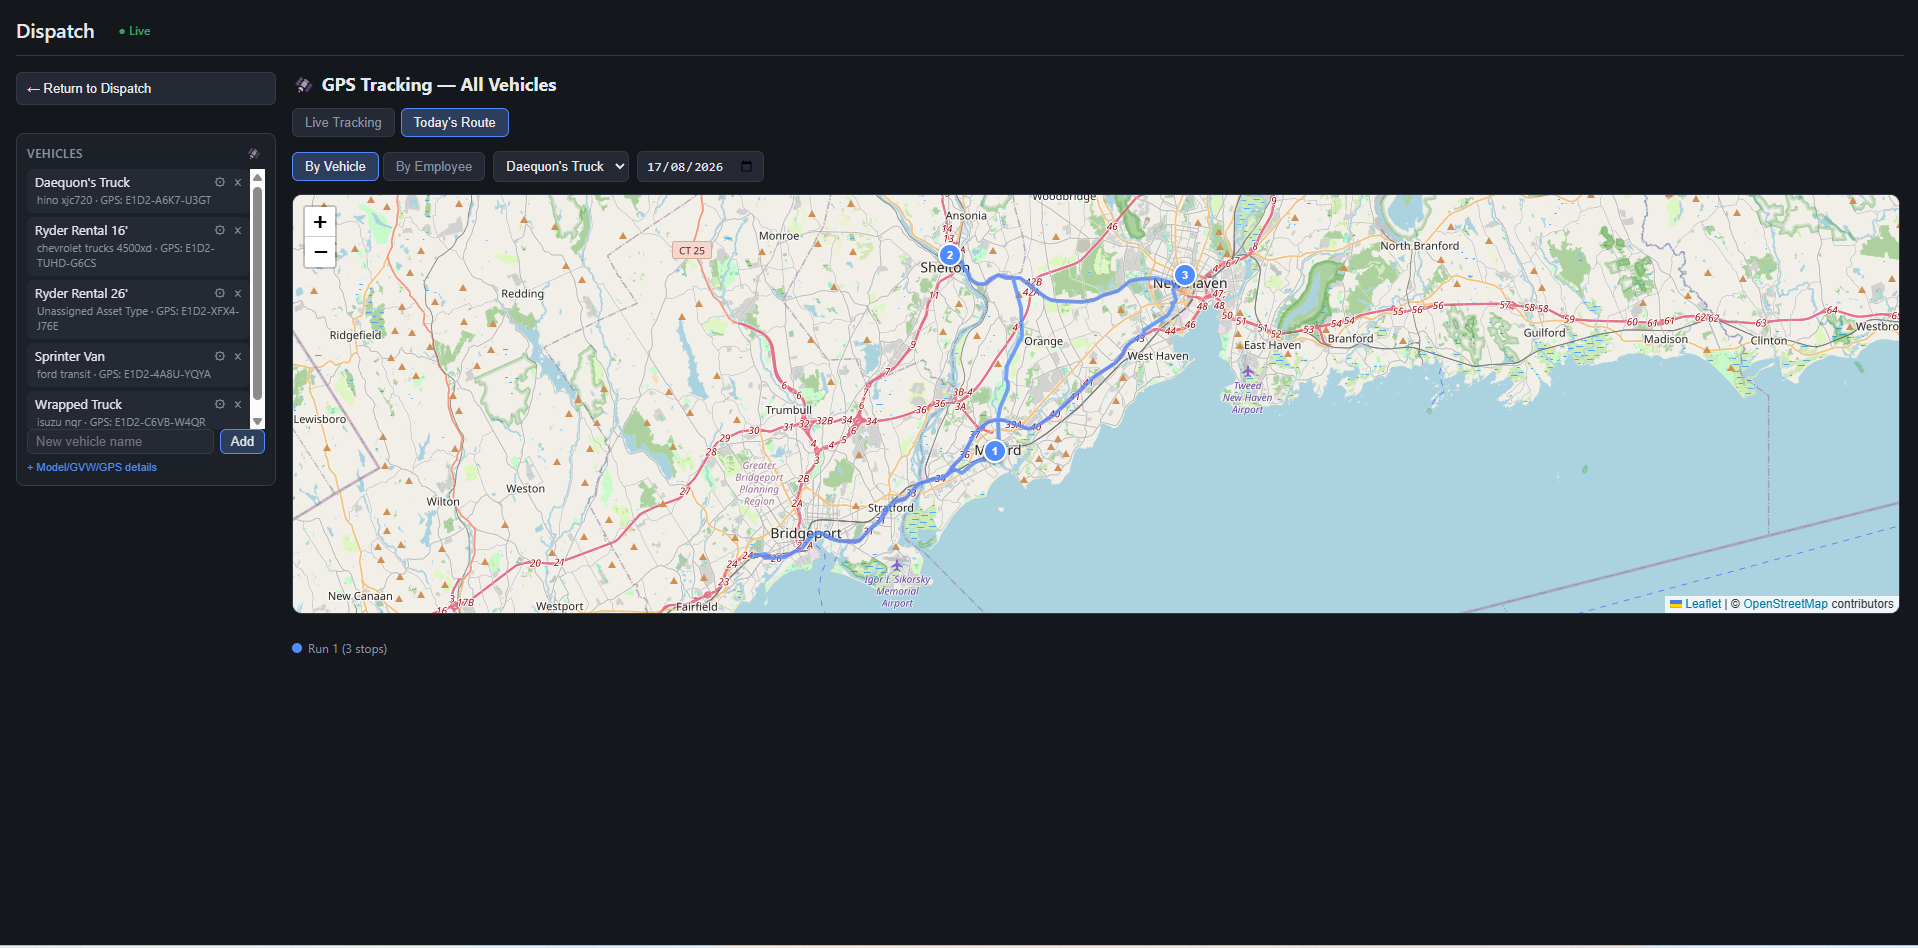
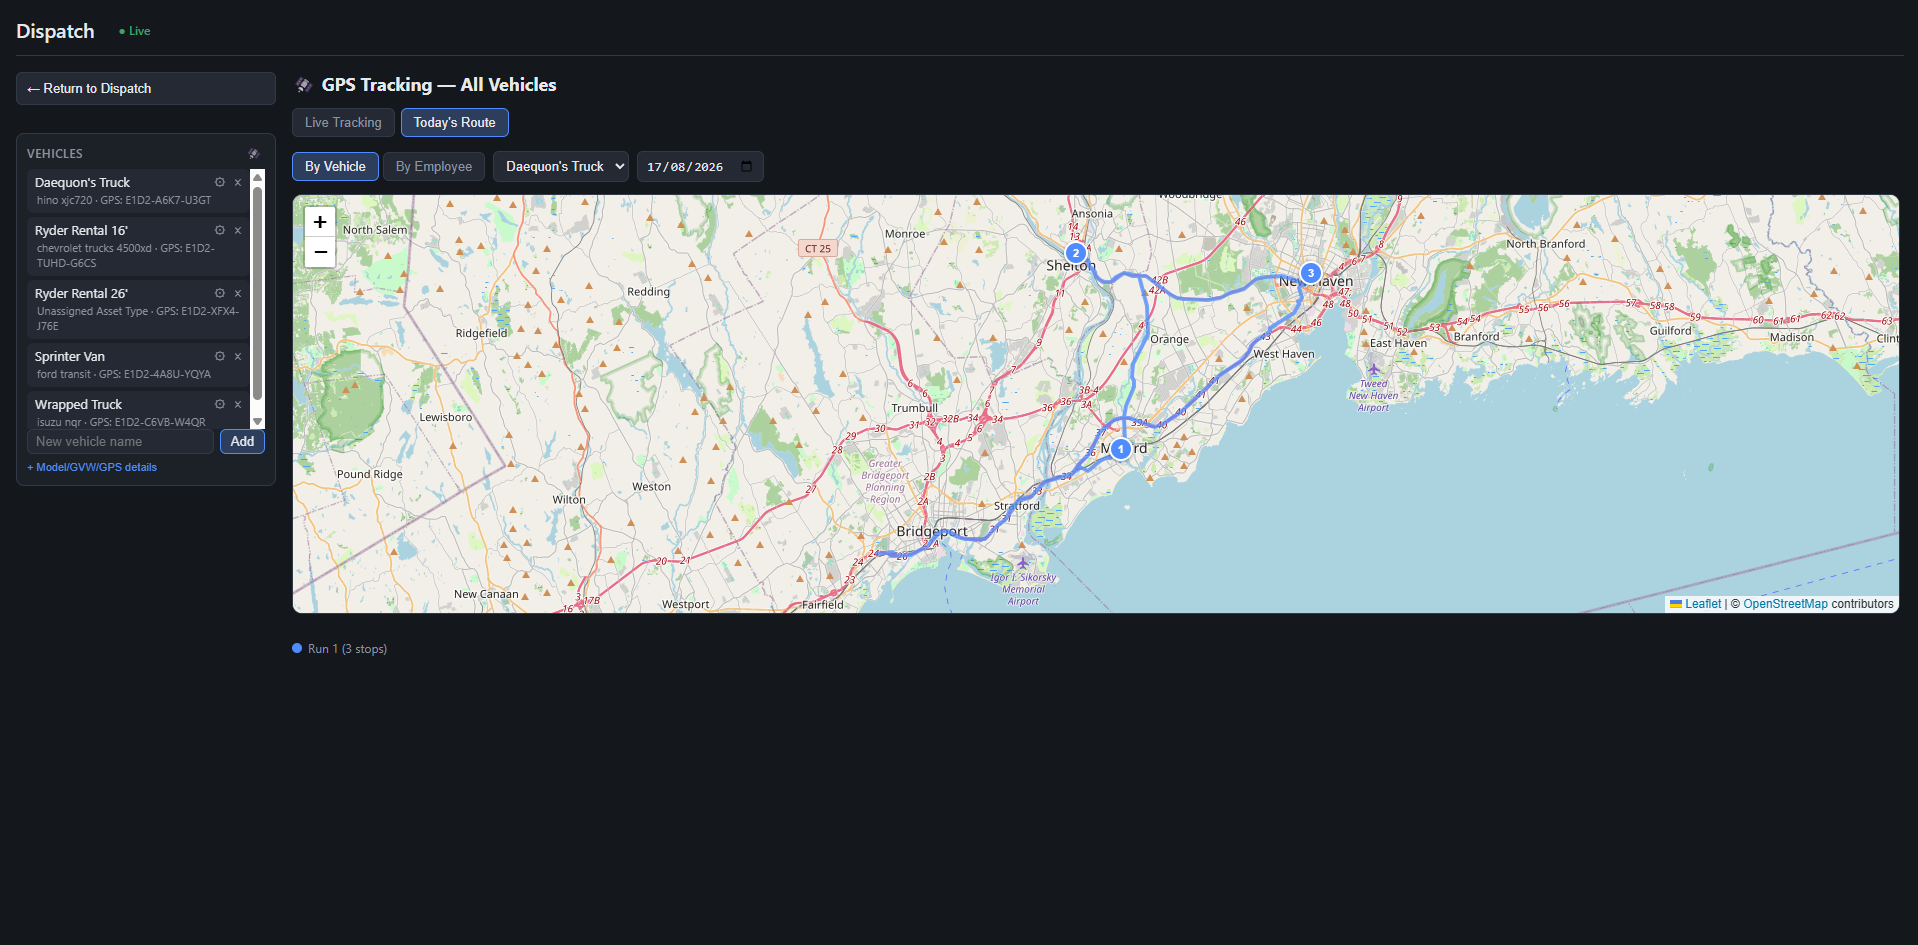
update 54

diff --git a/index.css b/index.css
@@ -547,12 +547,66 @@ section.visible { display: block; }
 ::-webkit-scrollbar-thumb { background: var(--border); border-radius: 3px; }
 ::-webkit-scrollbar-thumb:hover { background: var(--accent); }
 
+/* ── Hamburger ───────────────────────────────────────────────── */
+.nav-hamburger {
+  display: none;
+  flex-direction: column;
+  justify-content: center;
+  gap: 5px;
+  background: none;
+  border: none;
+  cursor: pointer;
+  padding: 4px;
+  z-index: 200;
+}
+.nav-hamburger span {
+  display: block;
+  width: 24px;
+  height: 2px;
+  background: var(--text);
+  border-radius: 2px;
+  transition: all 0.25s ease;
+  transform-origin: center;
+}
+.nav-hamburger.open span:nth-child(1) { transform: translateY(7px) rotate(45deg); }
+.nav-hamburger.open span:nth-child(2) { opacity: 0; }
+.nav-hamburger.open span:nth-child(3) { transform: translateY(-7px) rotate(-45deg); }
+
 /* ── Responsive nav ──────────────────────────────────────────── */
-@media (max-width: 540px) {
-  .nav-links { gap: 1.2rem; }
-  .nav-links a { font-size: 0.75rem; }
-  .hero-stats { gap: 1.5rem; }
+@media (max-width: 620px) {
+  .nav-hamburger { display: flex; }
+
+  .nav-links {
+    display: none;
+    position: fixed;
+    top: var(--nav-h);
+    left: 0; right: 0;
+    background: rgba(10, 10, 15, 0.97);
+    backdrop-filter: blur(16px);
+    -webkit-backdrop-filter: blur(16px);
+    flex-direction: column;
+    align-items: center;
+    gap: 0;
+    padding: 1rem 0 1.5rem;
+    border-bottom: 1px solid var(--border);
+    z-index: 99;
+  }
+  .nav-links.mobile-open { display: flex; }
+  .nav-links li { width: 100%; text-align: center; }
+  .nav-links a {
+    display: block;
+    padding: 0.85rem 2rem;
+    font-size: 1rem;
+    letter-spacing: 0.05em;
+    color: var(--muted);
+  }
+  .nav-links a:hover,
+  .nav-links a.active { color: var(--accent); }
+
+  .hero-stats { gap: 1.5rem; flex-wrap: wrap; }
   .about-grid { grid-template-columns: 1fr; }
+  .float-container { grid-template-columns: 1fr; }
+  .abbey-screenshots { grid-template-columns: 1fr; }
 }
 
 /* ── Lightbox ─────────────────────────────────────────────── */
@@ -651,4 +705,92 @@ section.visible { display: block; }
 }
 @media (max-width: 640px) {
   .abbey-screenshots { grid-template-columns: 1fr; }
+}
+
+/* ── Hamburger button ────────────────────────────────────────── */
+.nav-hamburger {
+  display: none;
+  flex-direction: column;
+  justify-content: center;
+  gap: 5px;
+  width: 36px;
+  height: 36px;
+  cursor: pointer;
+  background: none;
+  border: none;
+  padding: 4px;
+}
+.nav-hamburger span {
+  display: block;
+  height: 2px;
+  background: var(--text);
+  border-radius: 2px;
+  transition: all 0.25s;
+}
+.nav-hamburger.open span:nth-child(1) { transform: translateY(7px) rotate(45deg); }
+.nav-hamburger.open span:nth-child(2) { opacity: 0; }
+.nav-hamburger.open span:nth-child(3) { transform: translateY(-7px) rotate(-45deg); }
+
+/* ── Responsive nav ──────────────────────────────────────────── */
+@media (max-width: 600px) {
+  .nav-hamburger { display: flex; }
+
+  .nav-links {
+    display: none;
+    position: fixed;
+    top: var(--nav-h);
+    left: 0; right: 0;
+    background: rgba(10,10,15,0.97);
+    backdrop-filter: blur(12px);
+    -webkit-backdrop-filter: blur(12px);
+    border-bottom: 1px solid var(--border);
+    flex-direction: column;
+    gap: 0;
+    padding: 0.5rem 0 1rem;
+    z-index: 99;
+  }
+  .nav-links.open { display: flex; }
+  .nav-links li { width: 100%; }
+  .nav-links a {
+    display: block;
+    padding: 0.9rem 2rem;
+    font-size: 1rem;
+    letter-spacing: 0.05em;
+  }
+  .hero-stats { gap: 1.5rem; flex-wrap: wrap; }
+  .about-grid { grid-template-columns: 1fr; }
+}
+
+/* ── Mobile lightbox ─────────────────────────────────────────── */
+@media (max-width: 600px) {
+  #lb-content {
+    flex-direction: column;
+    gap: 0.75rem;
+    max-width: 95vw;
+    position: relative;
+  }
+  #lb-img {
+    max-width: 95vw;
+    max-height: 70vh;
+  }
+  #lb-prev {
+    position: fixed;
+    left: 0.75rem;
+    top: 50%;
+    transform: translateY(-50%);
+    z-index: 9001;
+  }
+  #lb-next {
+    position: fixed;
+    right: 0.75rem;
+    top: 50%;
+    transform: translateY(-50%);
+    z-index: 9001;
+  }
+  #lb-close {
+    position: fixed;
+    top: 1rem;
+    right: 1rem;
+    z-index: 9001;
+  }
 }

diff --git a/index.js b/index.js
@@ -97,11 +97,19 @@ document.querySelectorAll('.nav-links a').forEach(a => {
 });
 
 // Project card clicks — any element with data-route
+function closeMobileMenu() {
+  const btn = document.getElementById('nav-hamburger');
+  const links = document.getElementById('nav-links');
+  if (btn) btn.classList.remove('open');
+  if (links) links.classList.remove('mobile-open');
+}
+
 function bindDataRoutes() {
   document.querySelectorAll('[data-route]').forEach(el => {
     el.addEventListener('click', e => {
       if (e.button !== 0 || e.ctrlKey || e.metaKey || e.shiftKey) return;
       e.preventDefault();
+      closeMobileMenu();
       const route = el.getAttribute('data-route');
       location.hash = route;
     });
@@ -217,12 +225,33 @@ function setupYouTubeFallbacks() {
   });
 }
 
+// ── Mobile hamburger ──────────────────────────────────────────
+function bindHamburger() {
+  const btn = document.getElementById('nav-hamburger');
+  const links = document.getElementById('nav-links');
+  if (!btn || !links) return;
+
+  btn.addEventListener('click', () => {
+    btn.classList.toggle('open');
+    links.classList.toggle('mobile-open');
+  });
+
+  // Close menu when a nav link is tapped
+  links.querySelectorAll('a').forEach(a => {
+    a.addEventListener('click', () => {
+      btn.classList.remove('open');
+      links.classList.remove('mobile-open');
+    });
+  });
+}
+
 // Boot
 document.addEventListener('DOMContentLoaded', () => {
   bindDataRoutes();
   bindBackButtons();
   bindHeroCTAs();
   bindNavLogo();
+  bindHamburger();
   setupYouTubeFallbacks();
   const lb = buildLightbox();
   lb.bindImages();

diff --git a/index.html b/index.html
@@ -24,7 +24,8 @@
 <!-- Nav -->
 <nav class="site-nav">
   <span class="nav-logo" role="button" tabindex="0">Morgan<span class="accent-dot">.</span>James</span>
-  <ul class="nav-links">
+  <button class="nav-hamburger" id="nav-hamburger" aria-label="Menu"><span></span><span></span><span></span></button>
+  <ul class="nav-links" id="nav-links">
     <li><a id="about-me" href="#/about">About</a></li>
     <li><a id="projects" href="#/projects">Projects</a></li>
     <li><a id="resume" href="#/resume">Résumé</a></li>
@@ -346,6 +347,7 @@
     <div><h3>Live Dispatch Board</h3><img src="Resources/Projects/Abbey/dispatch-board.png" alt="Dispatch board"></div>
     <div><h3>GPS Live Tracking</h3><img src="Resources/Projects/Abbey/gps-live.png" alt="GPS live tracking"></div>
     <div><h3>Today's Route</h3><img src="Resources/Projects/Abbey/gps-route.png" alt="GPS route view"></div>
+    <div><h3>Order Information</h3><img src="Resources/Projects/Abbey/order-info.png" alt="Order info panel"></div>
   </div>
 
 </section>
